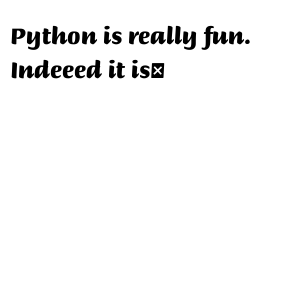
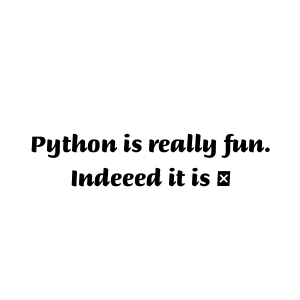
Added files to build on project

diff --git a/template_cards+posters.py b/template_cards+posters.py
@@ -1,0 +1,114 @@
+# from PIL import Image, ImageDraw, ImageFont
+
+# # Canvas dimensions (1080x1920 for portrait mode)
+# canvas_width, canvas_height = 1080, 1920
+# bg_color = (255, 250, 200)  # Vibrant background
+
+# # Create the canvas
+# canvas = Image.new("RGB", (canvas_width, canvas_height), color=bg_color)
+# draw = ImageDraw.Draw(canvas)
+
+# # Font setup
+# try:
+#     font = ImageFont.truetype("arial.ttf", size=80)  # Update with your preferred font path
+# except IOError:
+#     font = ImageFont.load_default()
+
+# # Text for the title
+# title_text = "You're Invited!"
+# title_color = (255, 0, 50)
+
+# # Calculate title position (centered horizontally at the top)
+# title_width, title_height = draw.textsize(title_text, font=font)
+# title_x = (canvas_width - title_width) // 2
+# title_y = 100  # Top margin
+# draw.text((title_x, title_y), title_text, fill=title_color, font=font)
+
+# # Load decorations (ensure you have these images available)
+# balloon = Image.open("balloon.png").resize((150, 150))
+# cake = Image.open("cake.png").resize((300, 300))
+# party_emoji = Image.open("party_emoji.png").resize((100, 100))
+
+# # Add balloons to the top corners
+# canvas.paste(balloon, (50, 50), balloon)  # Top-left corner
+# canvas.paste(balloon, (canvas_width - 200, 50), balloon)  # Top-right corner
+
+# # Add a cake to the center
+# center_x = (canvas_width - 300) // 2
+# center_y = (canvas_height - 300) // 2
+# canvas.paste(cake, (center_x, center_y), cake)
+
+# # Add party emojis to the bottom corners
+# canvas.paste(party_emoji, (50, canvas_height - 150), party_emoji)  # Bottom-left
+# canvas.paste(party_emoji, (canvas_width - 150, canvas_height - 150), party_emoji)  # Bottom-right
+
+# # Additional details (event info)
+# event_text = "Saturday, Nov 4th\n6:00 PM\n123 Party St, FunTown"
+# event_color = (0, 100, 200)
+# event_font = ImageFont.truetype("arial.ttf", size=50)
+# event_width, event_height = draw.textsize(event_text, font=event_font)
+# event_x = (canvas_width - event_width) // 2
+# event_y = canvas_height - 400  # Near the bottom
+# draw.multiline_text((event_x, event_y), event_text, fill=event_color, font=event_font, align="center")
+
+# # Save and show the poster
+# canvas.save("party_invitation.png")
+# canvas.show()
+
+# # Making a photo transparent for layering
+# from PIL import Image
+
+# # Load the image
+# image_path = "input_image.png"  # Replace with your image path
+# img = Image.open(image_path).convert("RGBA")
+
+# # Get pixel data
+# pixels = img.getdata()
+
+# # Define the color to make transparent (e.g., white)
+# background_color = (255, 255, 255)  # RGB value of white
+
+# # Create a new pixel data list
+# new_pixels = []
+# for pixel in pixels:
+#     # Check if the pixel matches the background color
+#     if pixel[:3] == background_color:
+#         # Make this pixel transparent
+#         new_pixels.append((255, 255, 255, 0))  # Fully transparent
+#     else:
+#         # Keep the pixel as is
+#         new_pixels.append(pixel)
+
+# # Update the image with the new pixels
+# img.putdata(new_pixels)
+
+# # Save the image with a transparent background
+# img.save("output_image_with_transparency.png", "PNG")
+# img.show()
+
+
+# #Threshold option
+# from PIL import Image
+
+# def is_close(color1, color2, threshold=30):
+#     return sum(abs(c1 - c2) for c1, c2 in zip(color1, color2)) < threshold
+
+# image_path = "input_image.png"
+# img = Image.open(image_path).convert("RGBA")
+# pixels = img.getdata()
+
+# background_color = (255, 255, 255)  # White background
+# threshold = 50
+
+# new_pixels = []
+# for pixel in pixels:
+#     if is_close(pixel[:3], background_color, threshold):
+#         new_pixels.append((255, 255, 255, 0))  # Transparent
+#     else:
+#         new_pixels.append(pixel)
+
+# img.putdata(new_pixels)
+# img.save("output_image_with_transparency.png", "PNG")
+# img.show()
+
+

diff --git a/practice.py b/practice.py
@@ -6,18 +6,18 @@ from  invitatin_cards import invites
 # Specify font and text
 font_size = 24
 font_path = Path(Path.home().joinpath("Desktop", "IMAGE", "PILW", "Briem_Hand",
-                                      "static", "BriemHand-ExtraBold.ttf"))  # Example font file path
+                                      "static", "BriemHand-ExtraBold.ttf"))  
 
-print("Font path:", font_path)  # Debugging statement
+print("Font path:", font_path)  
 
 try:
     if os.path.exists(font_path):
         font = ImageFont.truetype(font_path, font_size)
-        print("Font loaded successfully!")  # Debugging statement
+        print("Font loaded successfully!") 
     else:
-        print("Font file does not exist!")  # Debugging statement
+        print("Font file does not exist!")  
 except OSError as err:
-    print("An error occurred:", str(err))  # Debugging statement
+    print("An error occurred:", str(err))  
 
 # Create a new image with a white background
 width = 650
@@ -31,22 +31,31 @@ draw = ImageDraw.Draw(image)
 # print(invites)
 text = invites[1]
 
-# text_width, text_height = draw.textsize(text, font)
-# position = ((650 - text_width) // 2, (550 - text_height) // 2)
+# Calculate text size using textbbox
+text_bbox = draw.textbbox((0, 0), text, font=font)
+text_width = text_bbox[2] - text_bbox[0]
+text_height = text_bbox[3] - text_bbox[1]
 
-# Calculate text size
+# Calculate the center position
+x = (width - text_width) / 2
+y = (height - text_height) / 2
+txt_loc = (x, y)
+txt_color = (0, 0 , 0)
+
 try:
-    x = 30
-    y = 35
-
     # Draw text on the image
     text_color = (0, 0, 0)  # Black color
-    draw.text((x, y), text, fill=text_color, font=font)
+    draw.text((x, y), text, fill=text_color, font=font, align="center")
 
+    # Add a border
+    border_color = (255, 0, 0)  # Red border
+    border_width = 10
+    draw.rectangle([(0, 0), (width, height)], outline=border_color, width=border_width)
+    
     # Save the image
     image.save("output.png")
 
-    # Display the image (optional)
+    # Display the image
     # image.show()
 except Exception as e:
     print("Error:", str(e))

diff --git a/pic+emoji.py b/pic+emoji.py
@@ -1,0 +1,36 @@
+from PIL import Image, ImageDraw, ImageFont
+
+# Image specifications
+width = 300
+height = 300
+bgc = (255, 255, 255)  # Background color (white)
+
+# Create an image
+img = Image.new("RGB", (width, height), color=bgc)
+draw = ImageDraw.Draw(img)
+
+# Add text to the image
+font_path = r"C:\Windows\Fonts\seguiemj.ttf" 
+
+# Load a font (ensure the font supports emojis)
+font = ImageFont.truetype(font_path, size=20)
+
+text = ("Python is really fun.\nIndeed it is 😊")
+
+# Calculate text size using textbbox
+text_bbox = draw.textbbox((0, 0), text, font=font)
+text_width = text_bbox[2] - text_bbox[0]
+text_height = text_bbox[3] - text_bbox[1]
+
+# Calculate the center position
+x = (width - text_width) / 2
+y = (height - text_height) / 2
+txt_loc = (x, y)
+txt_color = (0, 0 , 0)
+
+# Draw the text
+draw.multiline_text(text=text, font=font, fill=txt_color, xy=txt_loc)
+
+# Save the image
+img.save("firstpic_emoji.png")
+print("Image saved as 'firstpic.png'.")

diff --git a/new_img.py b/new_img.py
@@ -1,5 +1,6 @@
 from PIL import  Image, ImageDraw, ImageFont
 from  practice import font
+import emoji
 
 width = 300
 height = 300
@@ -9,12 +10,19 @@ img = Image.new("RGB", (width, height), color=bgc)
 draw = ImageDraw.Draw(img)
 
 # Add text to pic
-text = "Python is really fun.\nIndeeed it is😊"
-x = 10
-y = 15
+text = ("Python is really fun.\nIndeeed it is ✔")
+# Calculate text size using textbbox
+text_bbox = draw.textbbox((0, 0), text, font=font)
+text_width = text_bbox[2] - text_bbox[0]
+text_height = text_bbox[3] - text_bbox[1]
+
+# Calculate the center position
+x = (width - text_width) / 2
+y = (height - text_height) / 2
 txt_loc = (x, y)
 txt_color = (0, 0 , 0)
-draw.multiline_text(text=text, font=font, fill=txt_color, xy=txt_loc)
+# Draw the text
+draw.multiline_text(text=text, font=font, fill=txt_color, xy=txt_loc, align="center")
 
 img.save("firstpic.png")
 # img.show()

diff --git a/random_circs.py b/random_circs.py
@@ -1,0 +1,30 @@
+import random
+from graphics import *
+import time
+
+win = GraphWin("RandomCircles", 300, 300)
+
+
+# Create 20 circles of diff radius
+def main():
+    for circle in range(20):
+        x = random.randrange(5, 200)
+        y = random.randrange(5, 200)
+        p = Point(x, y)
+        radius = random.randrange(3, 40)
+        # Colour for the circles
+        r = random.randrange(150)
+        g = random.randrange(150)
+        b = random.randrange(150)
+        my_color = color_rgb(r, g, b)
+        circle = Circle(p, radius)
+        circle.setFill(my_color)
+        circle.move(50, 70)
+        circle.draw(win)
+        time.sleep(1.5)
+    win.getMouse() # Keep the win on
+    win.close() 
+
+
+if __name__ == "__main__":
+    main()

diff --git a/zelles.py b/zelles.py
@@ -1,0 +1,26 @@
+from graphics import *
+
+win = GraphWin("Jeremy", 720, 720)
+color = color_rgb(25, 28, 200)
+win.setBackground(color)
+win.plot(300, 300, color="white")
+win.plotPixel(450, 600, color="white")
+txtBox = Entry(Point(300, 300), 5)
+txtBox.setText("Enter")
+txtBox.setSize(12)
+txtBox.setStyle("bold")
+txtBox.setTextColor("black")
+txtBox.setFill(color_rgb(255, 255, 255))
+txtBox.setText("Login")
+txt = txtBox.getText()
+print(txt)
+txtBox.draw(win)
+p = win.getMouse()
+txtBox2 = Entry(Point(int(p.getX()), int(p.getY())), 5)
+txtBox2.draw(win)
+print(f"X : {p.getX()} and Y: {p.getY()}")
+# txtBox.move(int(p.getX()), int(p.getY()))
+# print(f"Oject  moved at: {txtBox.getAnchor}")
+
+win.getMouse() # Keep the win on
+win.close() 

diff --git a/emojis.py b/emojis.py
@@ -1,0 +1,5 @@
+import emoji
+
+# Using named emojis
+print(emoji.emojize("Python is fun :snake: :rocket:"))
+print(emoji.emojize("I love coding :red_heart:"))
